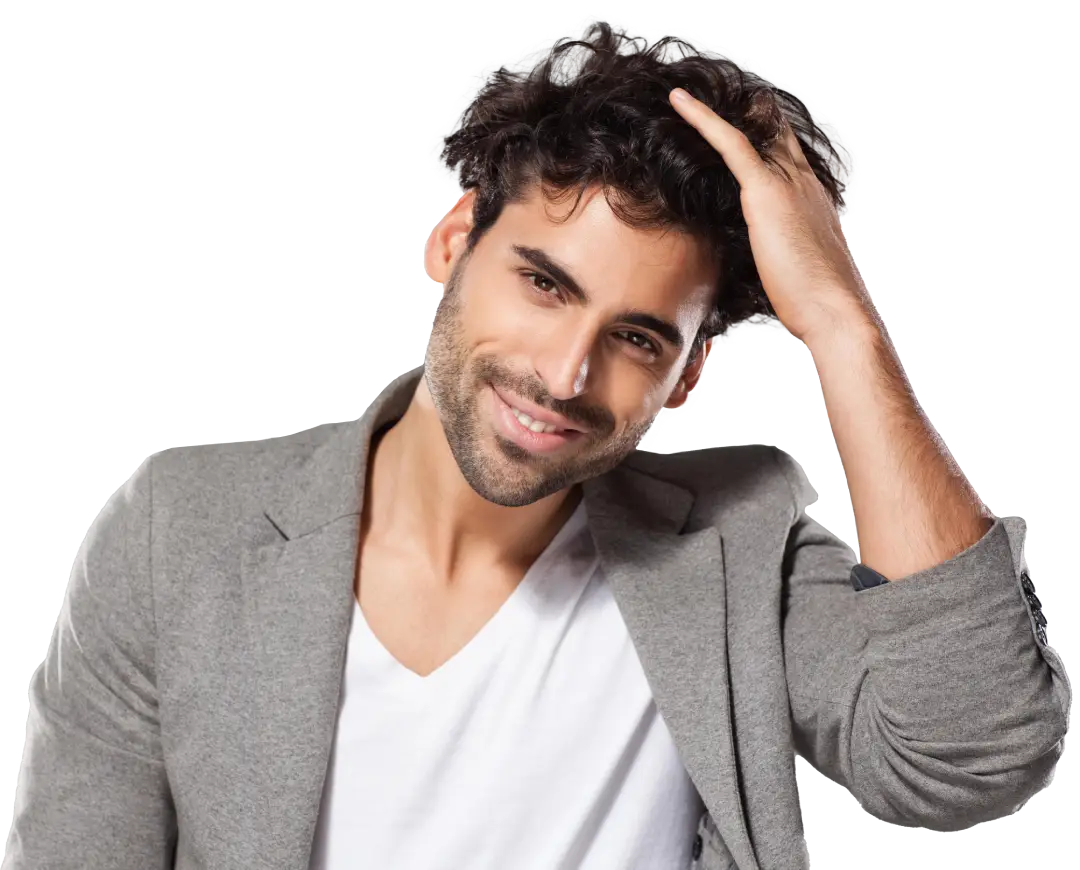
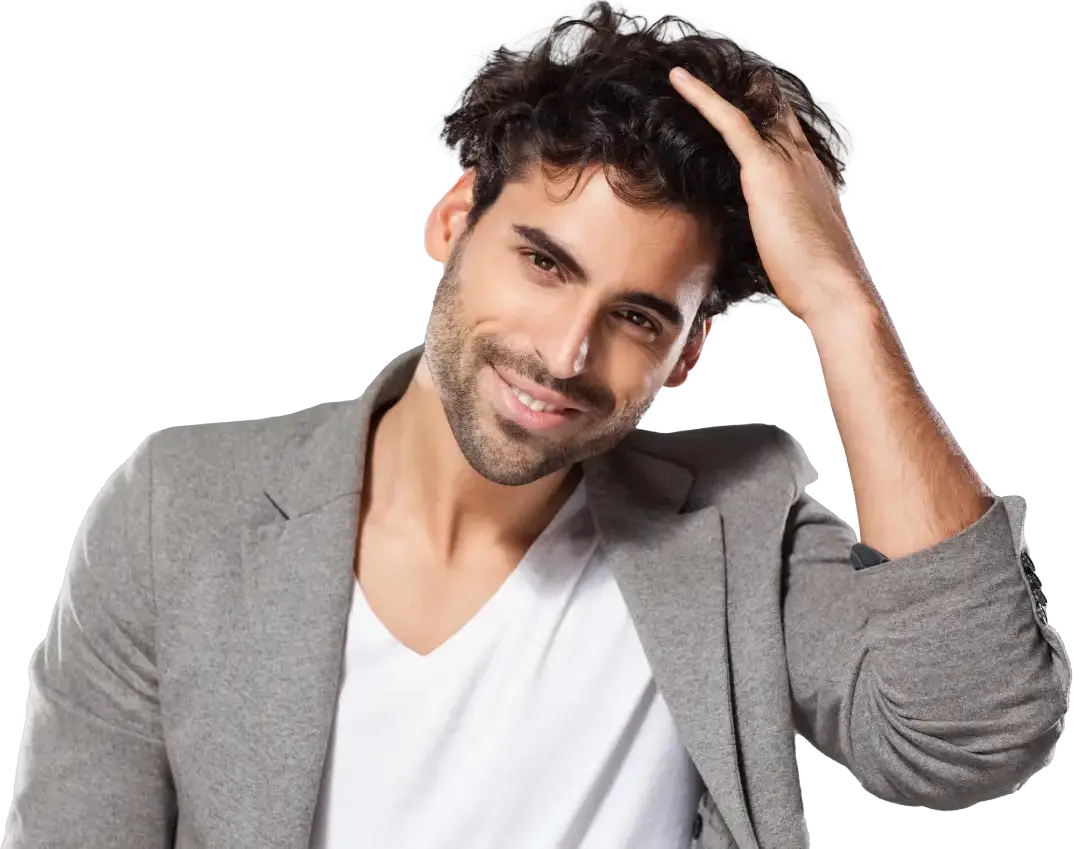
bug fixes

diff --git a/js/script.js b/js/script.js
@@ -28,7 +28,7 @@ document.addEventListener('DOMContentLoaded', () => {
         if (isThrottled) return; // Ignore if throttled
 
         isThrottled = true;
-        setTimeout(() => { isThrottled = false; }, 1500); // Adjust throttle duration as needed
+        setTimeout(() => { isThrottled = false; }, 1000); // Adjust throttle duration as needed
 
         if (event.deltaY > 0) {
             scrollToSection(currentIndex + 1);
@@ -41,7 +41,7 @@ document.addEventListener('DOMContentLoaded', () => {
         if (isThrottled) return; // Ignore if throttled
 
         isThrottled = true;
-        setTimeout(() => { isThrottled = false; }, 1500); // Adjust throttle duration as needed
+        setTimeout(() => { isThrottled = false; }, 1000); // Adjust throttle duration as needed
 
         if (event.key === 'ArrowDown') {
             scrollToSection(currentIndex + 1);

diff --git a/dandruff-education.html b/dandruff-education.html
@@ -453,8 +453,20 @@
                 }
             }
         })
+
+        document.onreadystatechange = function () {
+            let lastScrollPosition = 0;
+            const navbar = document.querySelector('header');
+            window.addEventListener('scroll', function (e) {
+                lastScrollPosition = window.scrollY;
+
+                if (lastScrollPosition > 100)
+                    navbar.classList.add('hide-header');
+                else
+                    navbar.classList.remove('hide-header');
+            });
+        }
     </script>
-    <script src="js/script.js"></script>
 </body>
 
 </html>

diff --git a/css/style.scss b/css/style.scss
@@ -128,7 +128,7 @@ header {
         img {
             width: 75%;
             position: absolute;
-            bottom: -17rem;
+            bottom: -20rem;
             right: -140px;
             z-index: 9;
         }
@@ -715,7 +715,7 @@ header {
         img {
             width: 50%;
             position: absolute;
-            bottom: -85px;
+            bottom: -123px;
             right: 0;
             z-index: 9;
         }

diff --git a/css/style.css b/css/style.css
@@ -98,7 +98,7 @@ header .buyNow button {
 .banner .bannerBoy img {
   width: 75%;
   position: absolute;
-  bottom: -17rem;
+  bottom: -20rem;
   right: -140px;
   z-index: 9;
 }
@@ -713,7 +713,7 @@ header .buyNow button {
 .banner_dandruff_education .banner_dandruff_educationBoy img {
   width: 50%;
   position: absolute;
-  bottom: -85px;
+  bottom: -123px;
   right: 0;
   z-index: 9;
 }

diff --git a/index.html b/index.html
@@ -85,7 +85,7 @@
     </header>
 
     <section class="banner">
-        <div class="container">
+        <div class="container-custom">
             <div class="row">
                 <div class="bannerTextArea">
                     <h3 class="sayAni">Say</h3>
